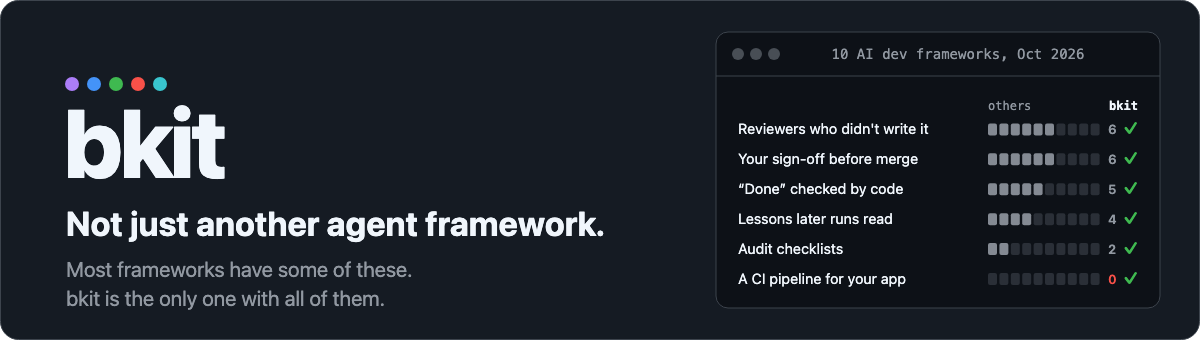
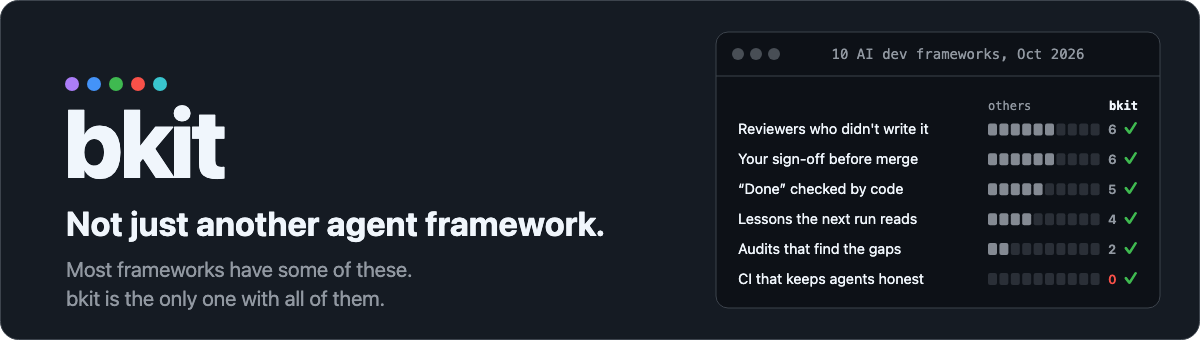
docs(readme): hero rows say what memory, audits and CI do for you
The last three rows on the comparison card named a thing instead of
saying what it does, unlike the three above them. They now read
"Lessons the next run reads", "Audits that find the gaps" and
"CI that keeps agents honest". The README alt text matches, and the
hero and social images are regenerated.

Changed region(s): [[0.6167, 0.7941, 0.7708, 0.8529], [0.6475, 0.7059, 0.7708, 0.7647], [0.6475, 0.6176, 0.7708, 0.6765]]

diff --git a/README.md b/README.md
@@ -1,7 +1,7 @@
 <p align="center">
   <picture>
     <source media="(prefers-color-scheme: dark)" srcset=".github/assets/bkit-hero-dark.svg">
-    <img alt="bkit: not just another agent framework. Most frameworks have some of these, bkit is the only one with all of them: reviewers who didn’t write it, your sign-off, “done” checked by code, lessons later runs read, audit checklists and a CI pipeline for your app." src=".github/assets/bkit-hero-light.svg" width="100%">
+    <img alt="bkit: not just another agent framework. Most frameworks have some of these, bkit is the only one with all of them: reviewers who didn’t write it, your sign-off, “done” checked by code, lessons the next run reads, audits that find the gaps and CI that keeps agents honest." src=".github/assets/bkit-hero-light.svg" width="100%">
   </picture>
 </p>
 
